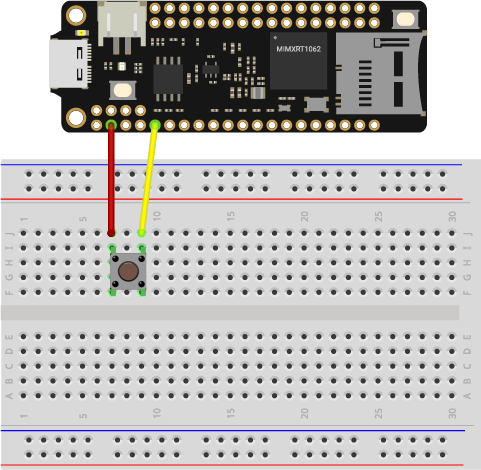
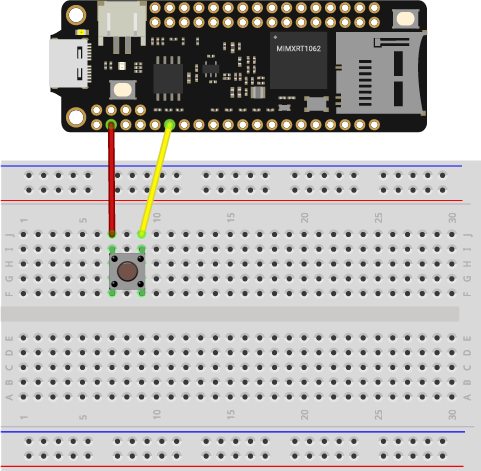
add tutorial

diff --git a/docs/tutorials/general/getting-started/read-analog-input.md b/docs/tutorials/general/getting-started/read-analog-input.md
@@ -1,8 +1,119 @@
 ---
-title: Overview
-description: Learn how to
+title: Read analog input
+description: 
 ---
 
-# Learn
+# Read analog input
 
-to be continued
+So far, you've learned about digital signals. In this example, let's try analog signals. You'll use a potentiometer to get different results.
+
+
+## What you need
+
+- SwiftIO Feather (or SwiftIO board)
+- Breadboard
+- Potentiometer
+- Jumper wires
+
+## Circuit
+
+Let's build the circuit now.
+
+1. Place the potentiometer into the breadboard.
+2. Connect the first leg on the left to pin GND.
+3. Connect the second leg to pin A0.
+4. Connect the third leg goes to pin 3V3.
+
+![](img/readAnalogInput.png)
+
+## Example code
+
+You can find the example code at the bottom left corner of IDE: ![](img/example.png) / `GettingStarted` / `ReadAnalogInput`.
+
+For the code, you will use the `AnalogIn` class.
+
+```swift
+// Read the input voltage on a specified analog pin. The value you get will be a decimal between 0.0 and 3.3.
+// Import the library to enable the relevant classes and functions.
+import SwiftIO
+
+// Import the board library to use the Id of the specific board.
+import SwiftIOFeather
+
+// Initialize the pin A0 as a analog input pin.
+let pin = AnalogIn(Id.A0)
+
+// Read the input voltage every second.
+while true {
+    // Declare a constant to store the value you read from the analog pin.
+    let value = pin.readVoltage()
+    // Print the value and you can see it in the serial monitor.
+    print(value)
+    // Wait a second and then continue to read.
+    sleep(ms: 1000)
+}
+```
+
+## Background
+
+### Analog input
+
+
+You have known that the digital signal has determined values, and the analog signal is quite different. Its voltage changes smoothly with time. And its value ranges between 0V and 3.3V. So you can get 1.5V, 2V, 2.75V... There can be infinite possible values.
+
+![](img/analogSignal.png)
+
+So how does the board read the values? Here comes the **analog to digital converter**. In brief, it converts the analog voltage to a digital value that the microcontroller can read. 
+
+The converter has different precision, and the **resolution** describes the possible values it can measure. Our boards have a 12-bit resolution, which means there are 4096 (0-4095) values in total. The values from 0 to 4095 are known as **raw values**.
+
+Let's see the working process in detail. When the board reads from the analog pin, it will first get a raw value between 0 and 4095. Then it will be converted to voltage value proportionally. Here is the formula:
+
+**resolution / reference voltage = raw value / actual voltage**
+
+_where_
+
+_resolution: 4096; reference voltage: 3.3V_
+
+For example, if the raw value equals 0, the voltage would be 0V; if the raw value equals 4095, the voltage would be 3.3V; and 2047 corresponds 1.65V.
+
+### Potentiometer
+
+The potentiometer is one kind of variable resistor. You could adjust its resistance by rotating it clockwise or anticlockwise.
+
+![](img/potentiometer.png)
+
+The resistance between ① and ③ is its maximum value. The wiper divides it into two parts. As the wiper moves, the resistance of the two parts will change accordingly.
+
+## Code analysis
+
+```swift
+import SwiftIO
+import SwiftIOFeather
+```
+Import the [**SwiftIO**](https://swiftioapi.madmachine.io/) library to use the related functionalities and the [**SwiftIOFeather**](https://github.com/madmachineio/MadBoards/blob/main/Sources/SwiftIOFeather/Id.swift) library to use the corresponding pin id. If you use the SwiftIO board, you need to import the `SwiftIOBoard` instead.
+
+```swift
+let pin = AnalogIn(Id.A0)
+```
+The potentometer connects to pin A0, so you initialize it before using the pin.
+
+```swift
+let value = pin.readVoltage()
+```
+The method `.readVoltage()` returns directly the voltage value. The return value is a floating-point number between 0V-3.3V. 
+
+``` swift
+print(value)
+```
+
+Print the result directly to the serial port. You can view the results on the serial monitor.
+
+
+## Reference
+
+[AnalogIn](https://swiftioapi.madmachine.io/Classes/AnalogIn.html) - set whether the pin output a high or low voltage.
+
+- `init(_:)` - initialize an analog input pin. You need to tell the id of a specified pin to initialize it.
+
+- `readVoltage()` - read the input voltage from a pin. It will return a float between 0 and 3.3.

diff --git a/docs/tutorials/general/getting-started/read-digital-input.md b/docs/tutorials/general/getting-started/read-digital-input.md
@@ -1,6 +1,6 @@
 ---
 title: Read digital input
-description: You will use a button of change digital input and print its values on the serial monitor.
+description: You will use a button to change digital inputs. The microcontroller reads the value and prints it on the serial monitor. 
 ---
 
 # Read digital input
@@ -18,7 +18,7 @@ In this example, let's try to read digital signals using a pushbutton. When you 
 
 1. Plug the button into the breadboard. Make sure the button is not in the wrong direction.
 2. Connect one leg on the left side to the pin 3V3V. 
-3. Connect one leg on the right side to pin D10. 
+3. Connect one leg on the right side to pin D1. 
 
 ![](img/readDigitalInput.png)
 
@@ -44,8 +44,8 @@ import SwiftIO
 // Import the board library to use the Id of the specific board.
 import SwiftIOFeather
 
-// Initialize the pin D0 as a digital input pin.
-let pin = DigitalIn(Id.D0)
+// Initialize the pin D1 as a digital input pin.
+let pin = DigitalIn(Id.D1)
 
 // read the input every second.
 while true {
@@ -90,15 +90,15 @@ import SwiftIOFeather
 [SwiftIOFeather](https://github.com/madmachineio/MadBoards/blob/main/Sources/SwiftIOFeather/Id.swift) defines the corresponding pin id of the SwiftIO Feather board. The pins of different boards are different. So this library tells the IDE you are dealing with this board, not any other board. Then you could use the id in it. If you use the SwiftIO board, you need to import the `SwiftIOBoard` instead.
 
 ``` swift
-let pin = DigitalIn(Id.D0)
+let pin = DigitalIn(Id.D1)
 ```
-The button connects to pin D0. The digital pins can be used as both input and output. You will set it when initializing the pin. Here the pin serves as input, so you need the class `DigitalIn`.
+The button connects to pin D1. The digital pins can be used as both input and output. You will set it when initializing the pin. Here the pin serves as input, so you need the class `DigitalIn`.
 
 ``` swift
 let value = pin.read()
 ```
 
-The method `read()` allows you to get the input value. The return value is either `true` or `false`, representing high level and low level respectively. So you can know the states of the button according to the values. If you press the button, the pin connects to 3V3, so the value will be `true`. Once you release the button, the input value will be false.
+The method `read()` allows you to get the input value. The return value is either `true` or `false`, representing high and low level respectively. So you can know the states of the button according to the values. If you press the button, the pin connects to 3V3, so the value will be `true`. Once you release the button, the input value will be false.
 
 ``` swift
 print(value)

diff --git a/docs/overview/introduction.md b/docs/overview/introduction.md
@@ -61,22 +61,26 @@ Let's keep going.
 
 ## Resources
 
-Never be afraid that you have no prior experience. You can follow the tutorials here to get started. 
+Never be afraid that you have no prior experience. You can follow the tutorials to get started. There are 5 sections in all, and you can navigate them by clicking on the header.
 
-- [Overview](#introduction) - start from here to get familiar with the MadMachine project and basic operations.
+![](img/header.png)
 
-- [How-to](../how-to/create-new-project.md) - learn some useful guides for your projects.
+- [**Overview**](#introduction) - start from here to get familiar with the MadMachine project and basic operations.
 
-- [Learn](../learn/overview.md) - then learn A to Z of electronics to understand better how everything works.
+- [**How-to**](../how-to/create-new-project.md) - learn some useful guides for your projects.
 
-- [Tutorials](../tutorials/overview.md) - try some built-in projects and get inspirations. 
+- [**Learn**](../learn/overview.md) - then learn A to Z of electronics to understand better how everything works.
 
-- [Reference](../reference/reference.md) - consult the documentation of APIs as you program your board.
+- [**Tutorials**](../tutorials/overview.md) - try some built-in projects and get inspirations. 
+
+- [**Reference**](../reference/reference.md) - consult the documentation of APIs as you program your board.
 
 
 
 
 ## More info
+
+- [Twitter](https://twitter.com/madmachineio) – know who we are.
 
 - [Discord](http://madmachine.io/discord) – discuss and share your opinions.
  
@@ -84,8 +88,7 @@ Never be afraid that you have no prior experience. You can follow the tutorials 
  
 - [Youtube](https://www.youtube.com/c/MadMachineio) – learn with us step-by-step.
 
-- [Twitter](https://twitter.com/madmachineio) – know who we are.
 
-Our SwiftIO board family is stable enough for most of your projects. We believe you will love it once you start. It's super easy to learn. And as you go further, you will see the charm of the Swift language.
+Our boards are stable enough to be used in most of your projects. We believe you will love it once you start. Besides, it's super easy to learn. And as you go further, you will see its charm.
 
 Hope all of you will enjoy it.

diff --git a/README.md b/README.md
@@ -1,33 +1,17 @@
-# Website
+# MadMachine Docs
 
-This website is built using [Docusaurus 2](https://docusaurus.io/), a modern static website generator.
+Welcome to MadMachine!
 
-## Installation
+If you have no idea how to start your project, you're in the right place. Here you can find all the necessary knowledge and tutorials to start programming and electronics. There are 5 sections in total, which allow you to get familiar with the usage, explore some simple projects and learn how everything works.
 
-```console
-yarn install
-```
+- [Overview](#introduction) - get familiar with the MadMachine project and basic operations.
 
-## Local Development
+- [How-to](../how-to/create-new-project.md) - learn some useful guides for your projects.
 
-```console
-yarn start
-```
+- [Learn](../learn/overview.md) - then learn A to Z of electronics to understand better how everything works.
 
-This command starts a local development server and opens up a browser window. Most changes are reflected live without having to restart the server.
+- [Tutorials](../tutorials/overview.md) - try some built-in projects and get inspirations. 
 
-## Build
+- [Reference](../reference/reference.md) - consult the documentation of APIs as you program your board.
 
-```console
-yarn build
-```
-
-This command generates static content into the `build` directory and can be served using any static contents hosting service.
-
-## Deployment
-
-```console
-GIT_USER=<Your GitHub username> USE_SSH=true yarn deploy
-```
-
-If you are using GitHub pages for hosting, this command is a convenient way to build the website and push to the `gh-pages` branch.
+Last but not least, if you find something confusing or you have any suggestions, welcome to open a pull request. 
